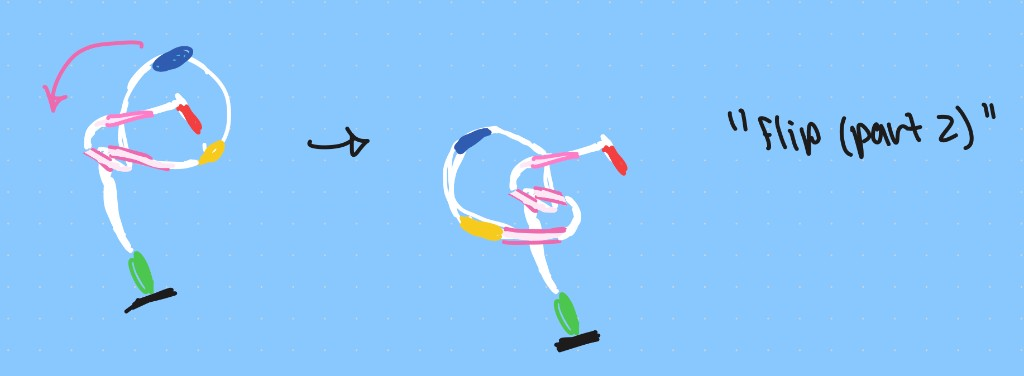
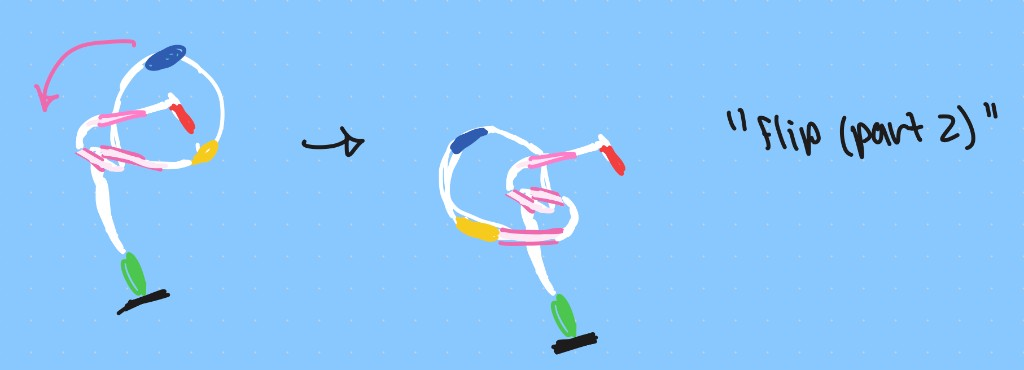
how it works update

diff --git a/content/_index.md b/content/_index.md
@@ -104,7 +104,7 @@ sections:
     id: steps
     content:
       title: "How It Works"
-      subtitle: "Six phases (steps 0–5): geometry on the arm, knot-step labels from vision"
+      subtitle: "Six phases (steps 0–5) from starting pose through pull and release"
       date_format: ""
     design:
       columns: '1'